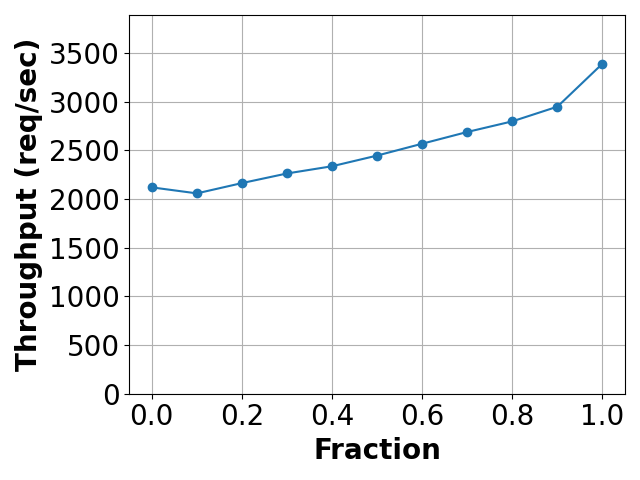
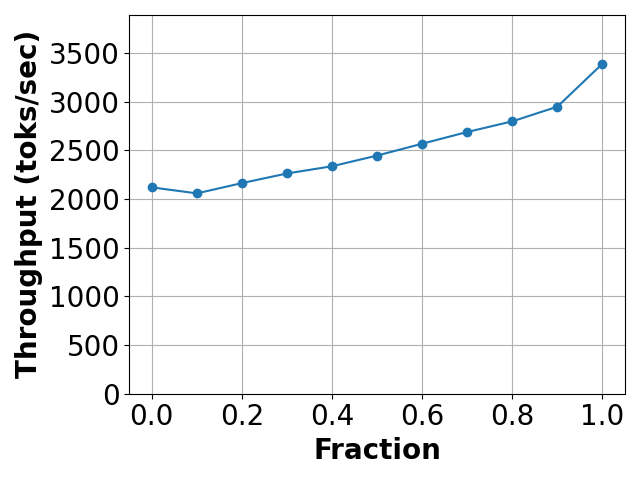
hbm-evic-bar-chart

Changed region(s): [[0.0, 0.0625, 0.0625, 0.7812]]

diff --git a/code/vllm/logs_families_experiment/read.py b/code/vllm/logs_families_experiment/read.py
@@ -6,12 +6,12 @@ import matplotlib.pyplot as plt
 import numpy as np
 
 plt.rcParams.update({
-    "font.size": 16,           # Base font size (everything scales from this)
+    "font.size": 20,           # Base font size (everything scales from this)
     "axes.titlesize": 20,      # Title font size
-    "axes.labelsize": 18,      # X and Y label font size
-    "xtick.labelsize": 16,     # X tick labels
-    "ytick.labelsize": 16,     # Y tick labels
-    "legend.fontsize": 12,     # Legend text
+    "axes.labelsize": 20,      # X and Y label font size
+    "xtick.labelsize": 20,     # X tick labels
+    "ytick.labelsize": 20,     # Y tick labels
+    "legend.fontsize": 20,     # Legend text
     "figure.titlesize": 22     # Figure title (if used)
 })
 
@@ -53,7 +53,7 @@ labels        = {"default": "FCFS", "family_load": "Batches grouped by prefixes"
 # ── Only default policy ───────────────────────────────────────────────────────
 policy = "default"
 
-throughput_vals = [data[n].get(policy, {}).get("throughput") for n in family_counts]
+throughput_vals = [data[n].get(policy, {}).get("throughput")*50 for n in family_counts]
 batch_vals      = [data[n].get(policy, {}).get("batch_size") for n in family_counts]
 
 x = np.arange(len(family_counts))
@@ -68,13 +68,13 @@ bars1 = ax1.bar(
     x - width/2,
     throughput_vals,
     width,
-    label="Throughput (req/s)",
+    label="Throughput (toks/s)",
     color="#1f77b4",      # <-- CHANGE COLOR HERE
     alpha=0.85
 )
 
 ax1.set_xlabel("Number of Families")
-ax1.set_ylabel("Throughput (req/s)")
+ax1.set_ylabel("Throughput (toks/s)")
 ax1.set_xticks(x)
 ax1.set_xticklabels([str(n) for n in family_counts])
 ax1.grid(axis="y", linestyle="--", alpha=0.5)
@@ -93,9 +93,20 @@ bars2 = ax2.bar(
 ax2.set_ylabel("Average Batch Size")
 
 # ── Combined Legend ───────────────────────────────────────────────────────────
+# ── Combined Legend (Top, outside) ───────────────────────────────────────────
 handles = [bars1, bars2]
-labels  = ["Throughput (req/s)", "Average Batch Size"]
-ax1.legend(handles, labels, loc="best")
+labels  = ["Throughput (toks/s)", "Average Batch Size"]
+
+ax1.legend(
+    handles,
+    labels,
+    loc="upper center",
+    bbox_to_anchor=(0.5, 1.15),
+    ncol=2,
+    frameon=False
+)
+
+plt.tight_layout(rect=[0, 0, 1, 0.85])  # leave space at top
 
 plt.tight_layout()
 plt.savefig("../../../results/hbm_evictions_fcfs_throughput_vs_batchsize_dual_axis.png")

diff --git a/code/vllm/fraction_sharing_dcgmi_logs/read.py b/code/vllm/fraction_sharing_dcgmi_logs/read.py
@@ -51,7 +51,7 @@ for frac in fractions:
 plt.figure()
 plt.plot(fractions[:len(avg_durations)], avg_durations, marker='o')
 plt.xlabel("Fraction", fontweight="bold", fontsize=20)
-plt.ylabel("Throughput (req/sec)", fontweight="bold", fontsize=20)
+plt.ylabel("Throughput (toks/sec)", fontweight="bold", fontsize=20)
 plt.xticks(fontsize=20)
 plt.yticks(fontsize=20)
 plt.ylim(0, max(avg_durations) + 500)

diff --git a/code/vllm/batch_size_dcgmi_logs/read.py b/code/vllm/batch_size_dcgmi_logs/read.py
@@ -25,7 +25,7 @@ plt.figure()
 # print(fractions)
 plt.plot(fractions, start_times, marker='o')
 plt.xlabel("Batch Size", fontweight="bold", fontsize=20)
-plt.ylabel("Throughput (req/sec)", fontweight="bold", fontsize=20)
+plt.ylabel("Throughput (toks/sec)", fontweight="bold", fontsize=20)
 plt.xticks(fontsize=20)
 plt.yticks(fontsize=20)
 plt.ylim(0, max(start_times) + 500)
